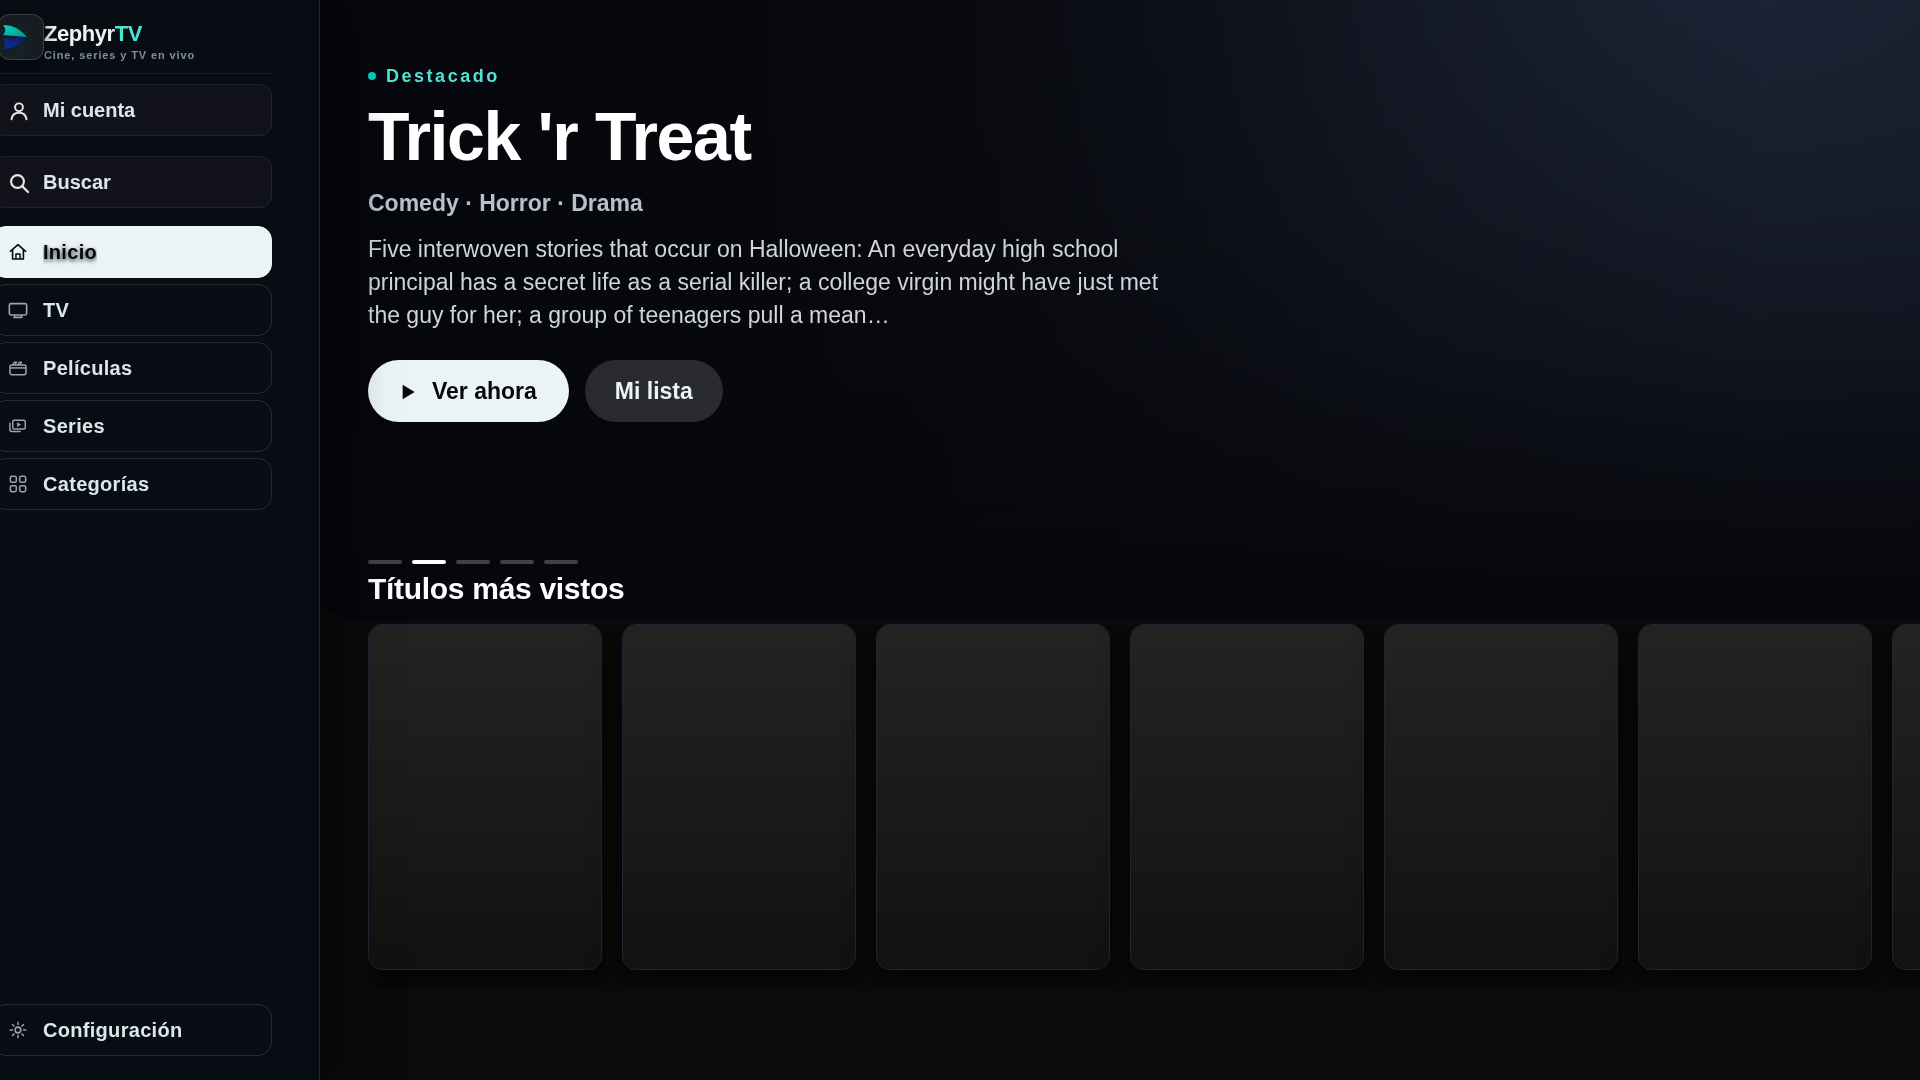
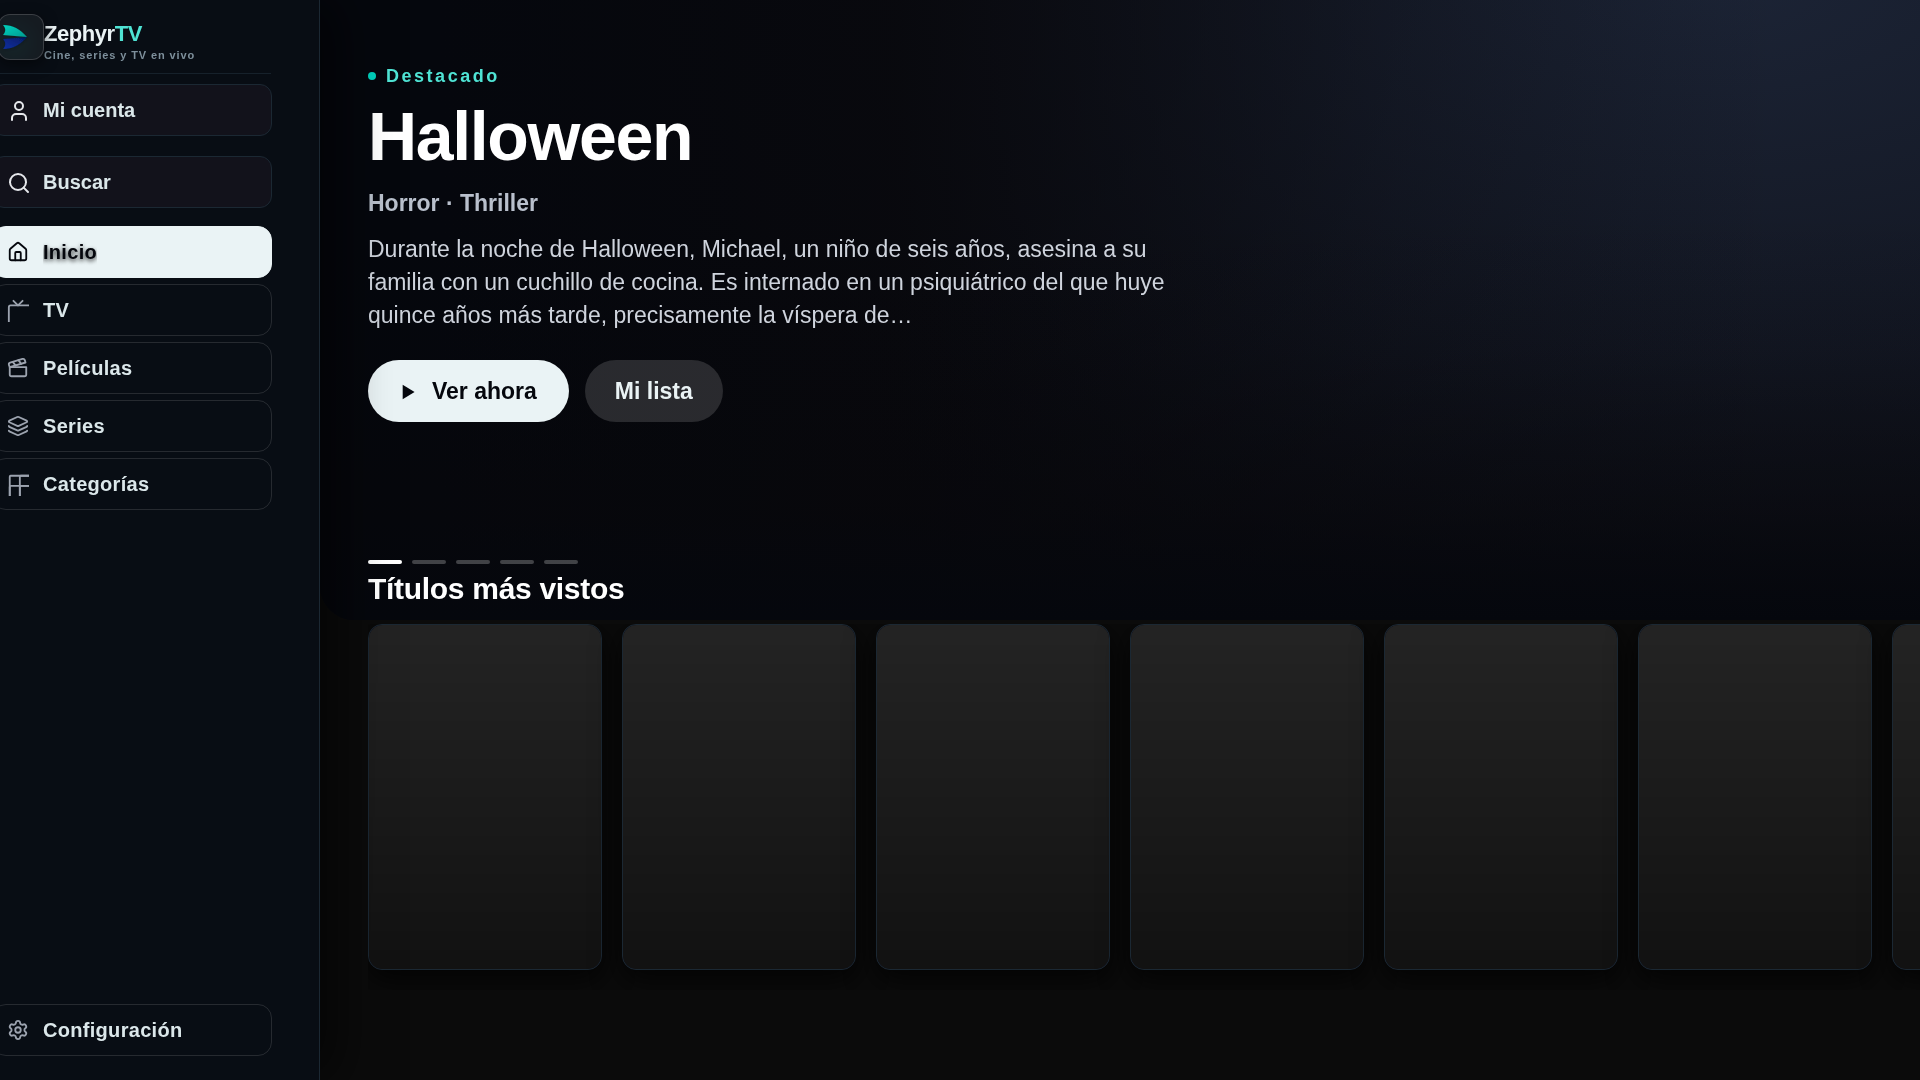
feat(ui): iconos Lucide vendorizados para el raíl
Los iconos del menú estaban dibujados a mano y no se leían: Inicio parecía un
pulgar, Películas una diana y Series un marco ambiguo. Se vendorizan ocho
iconos de Lucide 0.544.0 (ISC) en src/assets/icons y tools/icons.mjs genera el
módulo ES5 src/generated/icons.js con window.ZEPHYR_ICONS. El build lo
concatena antes del legado, así que no hace falta red ni npm en la TV.

El rail resuelve con railIcon(nombre), que cae al mapa heredado si falta el
icono. En CSS se fija fill:none en el svg y en sus figuras: Lucide es de trazo
y cualquier fill heredado lo convertiría en manchas.

Tarea: T6.19

diff --git a/webos/fidelity/js/app.js b/webos/fidelity/js/app.js
@@ -1,3 +1,24 @@
+/* ---- src/generated/icons.js ---- */
+;(function () {
+"use strict";
+/* GENERADO por tools/icons.mjs — no editar a mano.
+   Lucide v0.544.0 (ISC). Ver src/assets/icons/LICENSE. */
+;(function () {
+  "use strict";
+  window.ZEPHYR_ICONS = {
+    "house": "<svg xmlns=\"http://www.w3.org/2000/svg\" viewBox=\"0 0 24 24\" fill=\"none\" stroke=\"currentColor\" stroke-width=\"2\" stroke-linecap=\"round\" stroke-linejoin=\"round\"><path d=\"M15 21v-8a1 1 0 0 0-1-1h-4a1 1 0 0 0-1 1v8\" />\n  <path d=\"M3 10a2 2 0 0 1 .709-1.528l7-6a2 2 0 0 1 2.582 0l7 6A2 2 0 0 1 21 10v9a2 2 0 0 1-2 2H5a2 2 0 0 1-2-2z\" /></svg>",
+    "tv": "<svg xmlns=\"http://www.w3.org/2000/svg\" viewBox=\"0 0 24 24\" fill=\"none\" stroke=\"currentColor\" stroke-width=\"2\" stroke-linecap=\"round\" stroke-linejoin=\"round\"><path d=\"m17 2-5 5-5-5\" />\n  <rect width=\"20\" height=\"15\" x=\"2\" y=\"7\" rx=\"2\" /></svg>",
+    "clapperboard": "<svg xmlns=\"http://www.w3.org/2000/svg\" viewBox=\"0 0 24 24\" fill=\"none\" stroke=\"currentColor\" stroke-width=\"2\" stroke-linecap=\"round\" stroke-linejoin=\"round\"><path d=\"M20.2 6 3 11l-.9-2.4c-.3-1.1.3-2.2 1.3-2.5l13.5-4c1.1-.3 2.2.3 2.5 1.3Z\" />\n  <path d=\"m6.2 5.3 3.1 3.9\" />\n  <path d=\"m12.4 3.4 3.1 4\" />\n  <path d=\"M3 11h18v8a2 2 0 0 1-2 2H5a2 2 0 0 1-2-2Z\" /></svg>",
+    "layers": "<svg xmlns=\"http://www.w3.org/2000/svg\" viewBox=\"0 0 24 24\" fill=\"none\" stroke=\"currentColor\" stroke-width=\"2\" stroke-linecap=\"round\" stroke-linejoin=\"round\"><path d=\"M12.83 2.18a2 2 0 0 0-1.66 0L2.6 6.08a1 1 0 0 0 0 1.83l8.58 3.91a2 2 0 0 0 1.66 0l8.58-3.9a1 1 0 0 0 0-1.83z\" />\n  <path d=\"M2 12a1 1 0 0 0 .58.91l8.6 3.91a2 2 0 0 0 1.65 0l8.58-3.9A1 1 0 0 0 22 12\" />\n  <path d=\"M2 17a1 1 0 0 0 .58.91l8.6 3.91a2 2 0 0 0 1.65 0l8.58-3.9A1 1 0 0 0 22 17\" /></svg>",
+    "layout-grid": "<svg xmlns=\"http://www.w3.org/2000/svg\" viewBox=\"0 0 24 24\" fill=\"none\" stroke=\"currentColor\" stroke-width=\"2\" stroke-linecap=\"round\" stroke-linejoin=\"round\"><rect width=\"7\" height=\"7\" x=\"3\" y=\"3\" rx=\"1\" />\n  <rect width=\"7\" height=\"7\" x=\"14\" y=\"3\" rx=\"1\" />\n  <rect width=\"7\" height=\"7\" x=\"14\" y=\"14\" rx=\"1\" />\n  <rect width=\"7\" height=\"7\" x=\"3\" y=\"14\" rx=\"1\" /></svg>",
+    "search": "<svg xmlns=\"http://www.w3.org/2000/svg\" viewBox=\"0 0 24 24\" fill=\"none\" stroke=\"currentColor\" stroke-width=\"2\" stroke-linecap=\"round\" stroke-linejoin=\"round\"><path d=\"m21 21-4.34-4.34\" />\n  <circle cx=\"11\" cy=\"11\" r=\"8\" /></svg>",
+    "user": "<svg xmlns=\"http://www.w3.org/2000/svg\" viewBox=\"0 0 24 24\" fill=\"none\" stroke=\"currentColor\" stroke-width=\"2\" stroke-linecap=\"round\" stroke-linejoin=\"round\"><path d=\"M19 21v-2a4 4 0 0 0-4-4H9a4 4 0 0 0-4 4v2\" />\n  <circle cx=\"12\" cy=\"7\" r=\"4\" /></svg>",
+    "settings": "<svg xmlns=\"http://www.w3.org/2000/svg\" viewBox=\"0 0 24 24\" fill=\"none\" stroke=\"currentColor\" stroke-width=\"2\" stroke-linecap=\"round\" stroke-linejoin=\"round\"><path d=\"M9.671 4.136a2.34 2.34 0 0 1 4.659 0 2.34 2.34 0 0 0 3.319 1.915 2.34 2.34 0 0 1 2.33 4.033 2.34 2.34 0 0 0 0 3.831 2.34 2.34 0 0 1-2.33 4.033 2.34 2.34 0 0 0-3.319 1.915 2.34 2.34 0 0 1-4.659 0 2.34 2.34 0 0 0-3.32-1.915 2.34 2.34 0 0 1-2.33-4.033 2.34 2.34 0 0 0 0-3.831A2.34 2.34 0 0 1 6.35 6.051a2.34 2.34 0 0 0 3.319-1.915\" />\n  <circle cx=\"12\" cy=\"12\" r=\"3\" /></svg>"
+  };
+})();
+
+})();
+
 !(function () {
   "use strict";
   var APP_VERSION = "3.2.0";
@@ -1117,11 +1138,11 @@
        que abre el mismo panel de filtros del catálogo. Historial vive en
        Ajustes. */
     z = [
-      { label: "Inicio", page: 1, icon: "home" },
+      { label: "Inicio", page: 1, icon: "house" },
       { label: "TV", page: 0, icon: "tv" },
-      { label: "Películas", page: 2, icon: "film" },
-      { label: "Series", page: 3, icon: "series" },
-      { label: "Categorías", page: -1, icon: "grid", action: "categories" },
+      { label: "Películas", page: 2, icon: "clapperboard" },
+      { label: "Series", page: 3, icon: "layers" },
+      { label: "Categorías", page: -1, icon: "layout-grid", action: "categories" },
       { label: "Configuración", page: -1, icon: "settings", action: "settings", bottom: !0 },
     ],
     j = [
@@ -3246,7 +3267,7 @@
           var r = createEl("div", "tab-item focusable" + (z[n].bottom ? " is-bottom" : ""));
           r.appendChild(createEl("div", "tab-pill"));
           var o = createEl("div", "tab-icon");
-          ((o.innerHTML = B[z[n].icon] || ""), r.appendChild(o));
+          ((o.innerHTML = railIcon(z[n].icon)), r.appendChild(o));
           var s = createEl("div", "tab-title", z[n].label);
           (r.appendChild(s),
             (r._tab = n),
@@ -3308,7 +3329,7 @@
           var t = [
             {
               cls: "personal",
-              svg: '<svg viewBox="0 0 32 32" aria-hidden="true"><circle cx="16" cy="11" r="5.2" fill="none" stroke="currentColor" stroke-width="2.6"/><path d="M6 27c.8-5.8 4.6-8.8 10-8.8S25.2 21.2 26 27" fill="none" stroke="currentColor" stroke-width="2.6" stroke-linecap="round"/></svg>',
+              svg: railIcon("user"),
               label: "Mi cuenta",
             },
             {
@@ -3316,7 +3337,7 @@
               /* SVG en lugar de PNG: los iconos de mapa de bits del APK
                  quedaban casi invisibles en paneles de TV y se perdían al
                  escalar. El trazo hereda currentColor. */
-              svg: '<svg viewBox="0 0 32 32" aria-hidden="true"><circle cx="14" cy="14" r="8.5" fill="none" stroke="currentColor" stroke-width="2.8"/><path d="M20.5 20.5L28 28" fill="none" stroke="currentColor" stroke-width="3" stroke-linecap="round"/></svg>',
+              svg: railIcon("search"),
               label: "Buscar",
             },
           ],
@@ -9221,6 +9242,12 @@
       ze))
       ze.hasOwnProperty(p) && be.appendChild(ze[p]);
   }
+  /* Iconos del rail: Lucide (generado) con el mapa heredado como respaldo. */
+  function railIcon(name) {
+    var lib = window.ZEPHYR_ICONS || {};
+    return lib[name] || B[name] || B.thumb || "";
+  }
+
   function Ha() {
     (ye || renderSettingsScreen(), lt("settings"), Ua(0, !1), setFocus(je[0]));
   }

diff --git a/src/legacy/app.legacy.js b/src/legacy/app.legacy.js
@@ -1117,11 +1117,11 @@
        que abre el mismo panel de filtros del catálogo. Historial vive en
        Ajustes. */
     z = [
-      { label: "Inicio", page: 1, icon: "home" },
+      { label: "Inicio", page: 1, icon: "house" },
       { label: "TV", page: 0, icon: "tv" },
-      { label: "Películas", page: 2, icon: "film" },
-      { label: "Series", page: 3, icon: "series" },
-      { label: "Categorías", page: -1, icon: "grid", action: "categories" },
+      { label: "Películas", page: 2, icon: "clapperboard" },
+      { label: "Series", page: 3, icon: "layers" },
+      { label: "Categorías", page: -1, icon: "layout-grid", action: "categories" },
       { label: "Configuración", page: -1, icon: "settings", action: "settings", bottom: !0 },
     ],
     j = [
@@ -3246,7 +3246,7 @@
           var r = createEl("div", "tab-item focusable" + (z[n].bottom ? " is-bottom" : ""));
           r.appendChild(createEl("div", "tab-pill"));
           var o = createEl("div", "tab-icon");
-          ((o.innerHTML = B[z[n].icon] || ""), r.appendChild(o));
+          ((o.innerHTML = railIcon(z[n].icon)), r.appendChild(o));
           var s = createEl("div", "tab-title", z[n].label);
           (r.appendChild(s),
             (r._tab = n),
@@ -3308,7 +3308,7 @@
           var t = [
             {
               cls: "personal",
-              svg: '<svg viewBox="0 0 32 32" aria-hidden="true"><circle cx="16" cy="11" r="5.2" fill="none" stroke="currentColor" stroke-width="2.6"/><path d="M6 27c.8-5.8 4.6-8.8 10-8.8S25.2 21.2 26 27" fill="none" stroke="currentColor" stroke-width="2.6" stroke-linecap="round"/></svg>',
+              svg: railIcon("user"),
               label: "Mi cuenta",
             },
             {
@@ -3316,7 +3316,7 @@
               /* SVG en lugar de PNG: los iconos de mapa de bits del APK
                  quedaban casi invisibles en paneles de TV y se perdían al
                  escalar. El trazo hereda currentColor. */
-              svg: '<svg viewBox="0 0 32 32" aria-hidden="true"><circle cx="14" cy="14" r="8.5" fill="none" stroke="currentColor" stroke-width="2.8"/><path d="M20.5 20.5L28 28" fill="none" stroke="currentColor" stroke-width="3" stroke-linecap="round"/></svg>',
+              svg: railIcon("search"),
               label: "Buscar",
             },
           ],
@@ -9221,6 +9221,12 @@
       ze))
       ze.hasOwnProperty(p) && be.appendChild(ze[p]);
   }
+  /* Iconos del rail: Lucide (generado) con el mapa heredado como respaldo. */
+  function railIcon(name) {
+    var lib = window.ZEPHYR_ICONS || {};
+    return lib[name] || B[name] || B.thumb || "";
+  }
+
   function Ha() {
     (ye || renderSettingsScreen(), lt("settings"), Ua(0, !1), setFocus(je[0]));
   }

diff --git a/webos/fidelity/css/app.css b/webos/fidelity/css/app.css
@@ -1796,7 +1796,7 @@ body {
    fill y stroke blancos en el svg, no en el contenedor. */
 .tab-item.is-focused .tab-icon svg,
 .tab-item:hover .tab-icon svg {
-  fill: currentColor;
+  fill: none;
   stroke: currentColor;
 }
 
@@ -1831,7 +1831,7 @@ body {
 }
 
 .home-tabs .tab-item.is-focused .tab-icon svg {
-  fill: currentColor;
+  fill: none;
   stroke: currentColor;
 }
 
@@ -2036,4 +2036,30 @@ body {
 .welcome-free {
   text-transform: none;
   letter-spacing: .1em;
+}
+
+
+/* ------------------------------------------------------------------
+   Iconos Lucide: son de trazo. Cualquier fill heredado los convierte en
+   manchas, asi que se fija fill:none en el svg y en cada figura.
+   ------------------------------------------------------------------ */
+.home-tabs .tab-item .tab-icon svg,
+.home-tabs .tab-item .tab-icon svg *,
+.home-tabs .home-notify .n-normal svg,
+.home-tabs .home-notify .n-normal svg * {
+  width: 24px;
+  height: 24px;
+  fill: none;
+  stroke: currentColor;
+  stroke-width: 2;
+  stroke-linecap: round;
+  stroke-linejoin: round;
+}
+
+.home-tabs .tab-item.is-focused .tab-icon svg,
+.home-tabs .tab-item.is-focused .tab-icon svg *,
+.home-tabs .home-notify .notify-item.is-focused .n-normal svg,
+.home-tabs .home-notify .notify-item.is-focused .n-normal svg * {
+  fill: none;
+  stroke: currentColor;
 }
